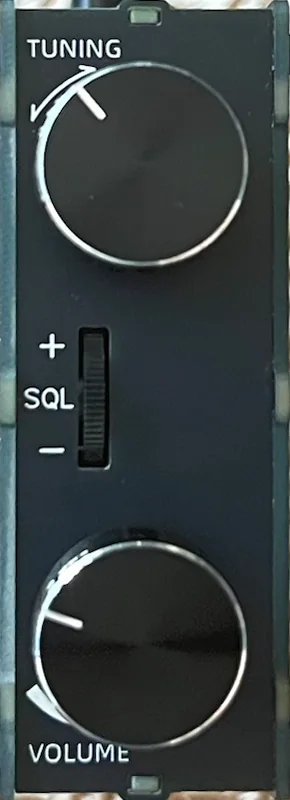
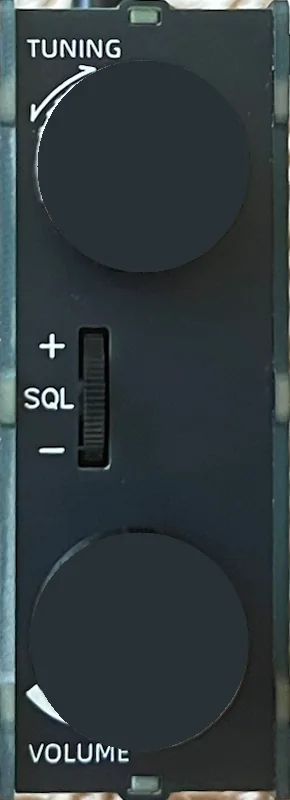
Knobs em 3D no rádio montado com as fotos
Os knobs TUNING e VOLUME viram peças 3D na lateral direita: corpo
serrilhado, com luz, e a foto do alto de cada knob na ponta. Na foto da
lateral, o lugar deles fica liso, só com o que está impresso em volta.

Claude-Session: https://claude.ai/code/session_01Ya8ihXupZya5ryMuZ1E2oA

diff --git a/viewer3d/src/fotos-3d.js b/viewer3d/src/fotos-3d.js
@@ -1,7 +1,9 @@
-// Modelo 3D do rádio feito só com as fotos: uma caixa nas medidas do corpo, com a foto de cada lado.
-// Os knobs e a antena aparecem só na foto, e o topo ainda não tem foto.
+// Modelo 3D do rádio feito com as fotos: uma caixa nas medidas do corpo, com a foto de cada lado,
+// e os dois knobs como peças 3D, com a foto do alto de cada um na ponta.
+// A antena aparece só na foto, e o topo ainda não tem foto.
 import {
-  BoxGeometry, EdgesGeometry, LineBasicMaterial, LineSegments, Mesh, MeshBasicMaterial,
+  AmbientLight, BoxGeometry, CanvasTexture, CircleGeometry, CylinderGeometry, DirectionalLight, EdgesGeometry,
+  LineBasicMaterial, LineSegments, Mesh, MeshBasicMaterial, MeshStandardMaterial,
   PerspectiveCamera, Scene, Spherical, SRGBColorSpace, TextureLoader, Vector3, WebGLRenderer,
 } from 'three';
 import { OrbitControls } from 'three/examples/jsm/controls/OrbitControls.js';
@@ -17,6 +19,9 @@ const LADOS = [
 ];
 // ordem das faces da BoxGeometry: +x, −x, +y (topo, sem foto), −y, +z, −z
 const FACES = ['direita', 'esquerda', null, 'fundo', 'frente', 'verso'];
+// knobs da lateral direita: foto da ponta, centro e raio na foto endireitada da lateral (10 px por mm)
+const KNOBS = [['dp666-3d-knob-tuning.webp', 143, 166, 107], ['dp666-3d-knob-volume.webp', 139, 641, 110]];
+const KNOB_LEN = 11.7; // mm para fora da lateral
 
 const TXT = {
   lado: 'Lado do rádio',
@@ -69,6 +74,34 @@ export function mountFotos(root) {
   scene.add(caixa);
   scene.add(new LineSegments(new EdgesGeometry(caixa.geometry), new LineBasicMaterial({ color: 0x7d858f })));
 
+  // knobs: corpo serrilhado com luz, e a foto do alto do knob na ponta
+  scene.add(new AmbientLight(0xffffff, 0.9));
+  const sol = new DirectionalLight(0xffffff, 1.6);
+  sol.position.set(80, 120, 140);
+  scene.add(sol);
+  const cv = document.createElement('canvas');
+  cv.width = 480; cv.height = 32;
+  const cx = cv.getContext('2d');
+  cx.fillStyle = '#3b3f45'; cx.fillRect(0, 0, 480, 32);
+  cx.fillStyle = '#121417';
+  for (let i = 0; i < 480; i += 16) cx.fillRect(i, 0, 5, 32);
+  const serrilha = new CanvasTexture(cv);
+  serrilha.colorSpace = SRGBColorSpace;
+  KNOBS.forEach(([arq, u, v, rpx]) => {
+    const r = rpx / 10, y = H / 2 - v / 10, z = D / 2 - u / 10;
+    const corpo = new Mesh(new CylinderGeometry(r, r, KNOB_LEN, 64, 1, true),
+      new MeshStandardMaterial({ map: serrilha, roughness: 0.55, metalness: 0.25 }));
+    corpo.rotation.z = -Math.PI / 2; // eixo do cilindro para fora da lateral (+x)
+    corpo.position.set(W / 2 + KNOB_LEN / 2, y, z);
+    scene.add(corpo);
+    const tex = loader.load(new URL(arq, pasta).href, wake);
+    tex.colorSpace = SRGBColorSpace;
+    const ponta = new Mesh(new CircleGeometry(r, 64), new MeshBasicMaterial({ map: tex }));
+    ponta.rotation.y = Math.PI / 2; // a foto fica virada para fora, sem espelhar
+    ponta.position.set(W / 2 + KNOB_LEN + 0.02, y, z);
+    scene.add(ponta);
+  });
+
   const reduced = window.matchMedia && window.matchMedia('(prefers-reduced-motion: reduce)').matches;
   let dist = 330, anim = null, pending = false;
 
@@ -112,7 +145,7 @@ export function mountFotos(root) {
     camera.aspect = w / h;
     camera.updateProjectionMatrix();
     // distância para a caixa inteira caber, com folga, em qualquer proporção da tela
-    const r = Math.hypot(W, H, D) / 2;
+    const r = Math.hypot(W + 2 * KNOB_LEN, H, D) / 2;
     const vf = (camera.fov * Math.PI) / 360;
     const hf = Math.atan(Math.tan(vf) * camera.aspect);
     dist = (r / Math.sin(Math.min(vf, hf))) * 0.75;

diff --git a/site/i18n.py b/site/i18n.py
@@ -83,8 +83,8 @@ UI = {
         "v3_open": "Abrir a visão 3D",
         "f3_open": "Ver o rádio em 3D",
         "f3_note": "Baixa cerca de {kb} KB só quando você pede. Funciona no celular e no computador.",
-        "f3_caption": ("O rádio em 3D, montado com as fotos abaixo: uma caixa nas medidas do corpo, com a foto de cada lado. "
-                       "Os knobs e a antena aparecem só como foto, e o topo ainda não tem foto."),
+        "f3_caption": ("O rádio em 3D, montado com as fotos abaixo: uma caixa nas medidas do corpo, com a foto de cada lado, "
+                       "e os knobs em 3D. A antena aparece só como foto, e o topo ainda não tem foto."),
         "v3_note": "Baixa um arquivo de {kb} KB só quando você pede. Funciona no celular e no computador.",
         "v3_caption": ("Módulos ESP32 em escala, com os pinos coloridos pela função no DP-666. Medidas externas dos datasheets "
                        "da Espressif; a posição dos pinos laterais e do conector de antena é aproximada. A grade tem quadrados de 5 mm."),
@@ -159,8 +159,8 @@ UI = {
         "v3_open": "Open the 3D view",
         "f3_open": "See the radio in 3D",
         "f3_note": "Downloads about {kb} KB only when you ask. Works on phones and computers.",
-        "f3_caption": ("The radio in 3D, built from the photos below: a box with the body’s dimensions and the photo of each side on it. "
-                       "The knobs and the antenna show only in the photos, and the top has no photo yet."),
+        "f3_caption": ("The radio in 3D, built from the photos below: a box with the body’s dimensions, the photo of each side on it "
+                       "and the knobs in 3D. The antenna shows only in the photos, and the top has no photo yet."),
         "v3_note": "Downloads a {kb} KB file only when you ask. Works on phones and computers.",
         "v3_caption": ("ESP32 modules to scale, with the pins colored by their function on the DP-666. Outer dimensions from "
                        "Espressif’s datasheets; the position of the side pins and of the antenna connector is approximate. "
